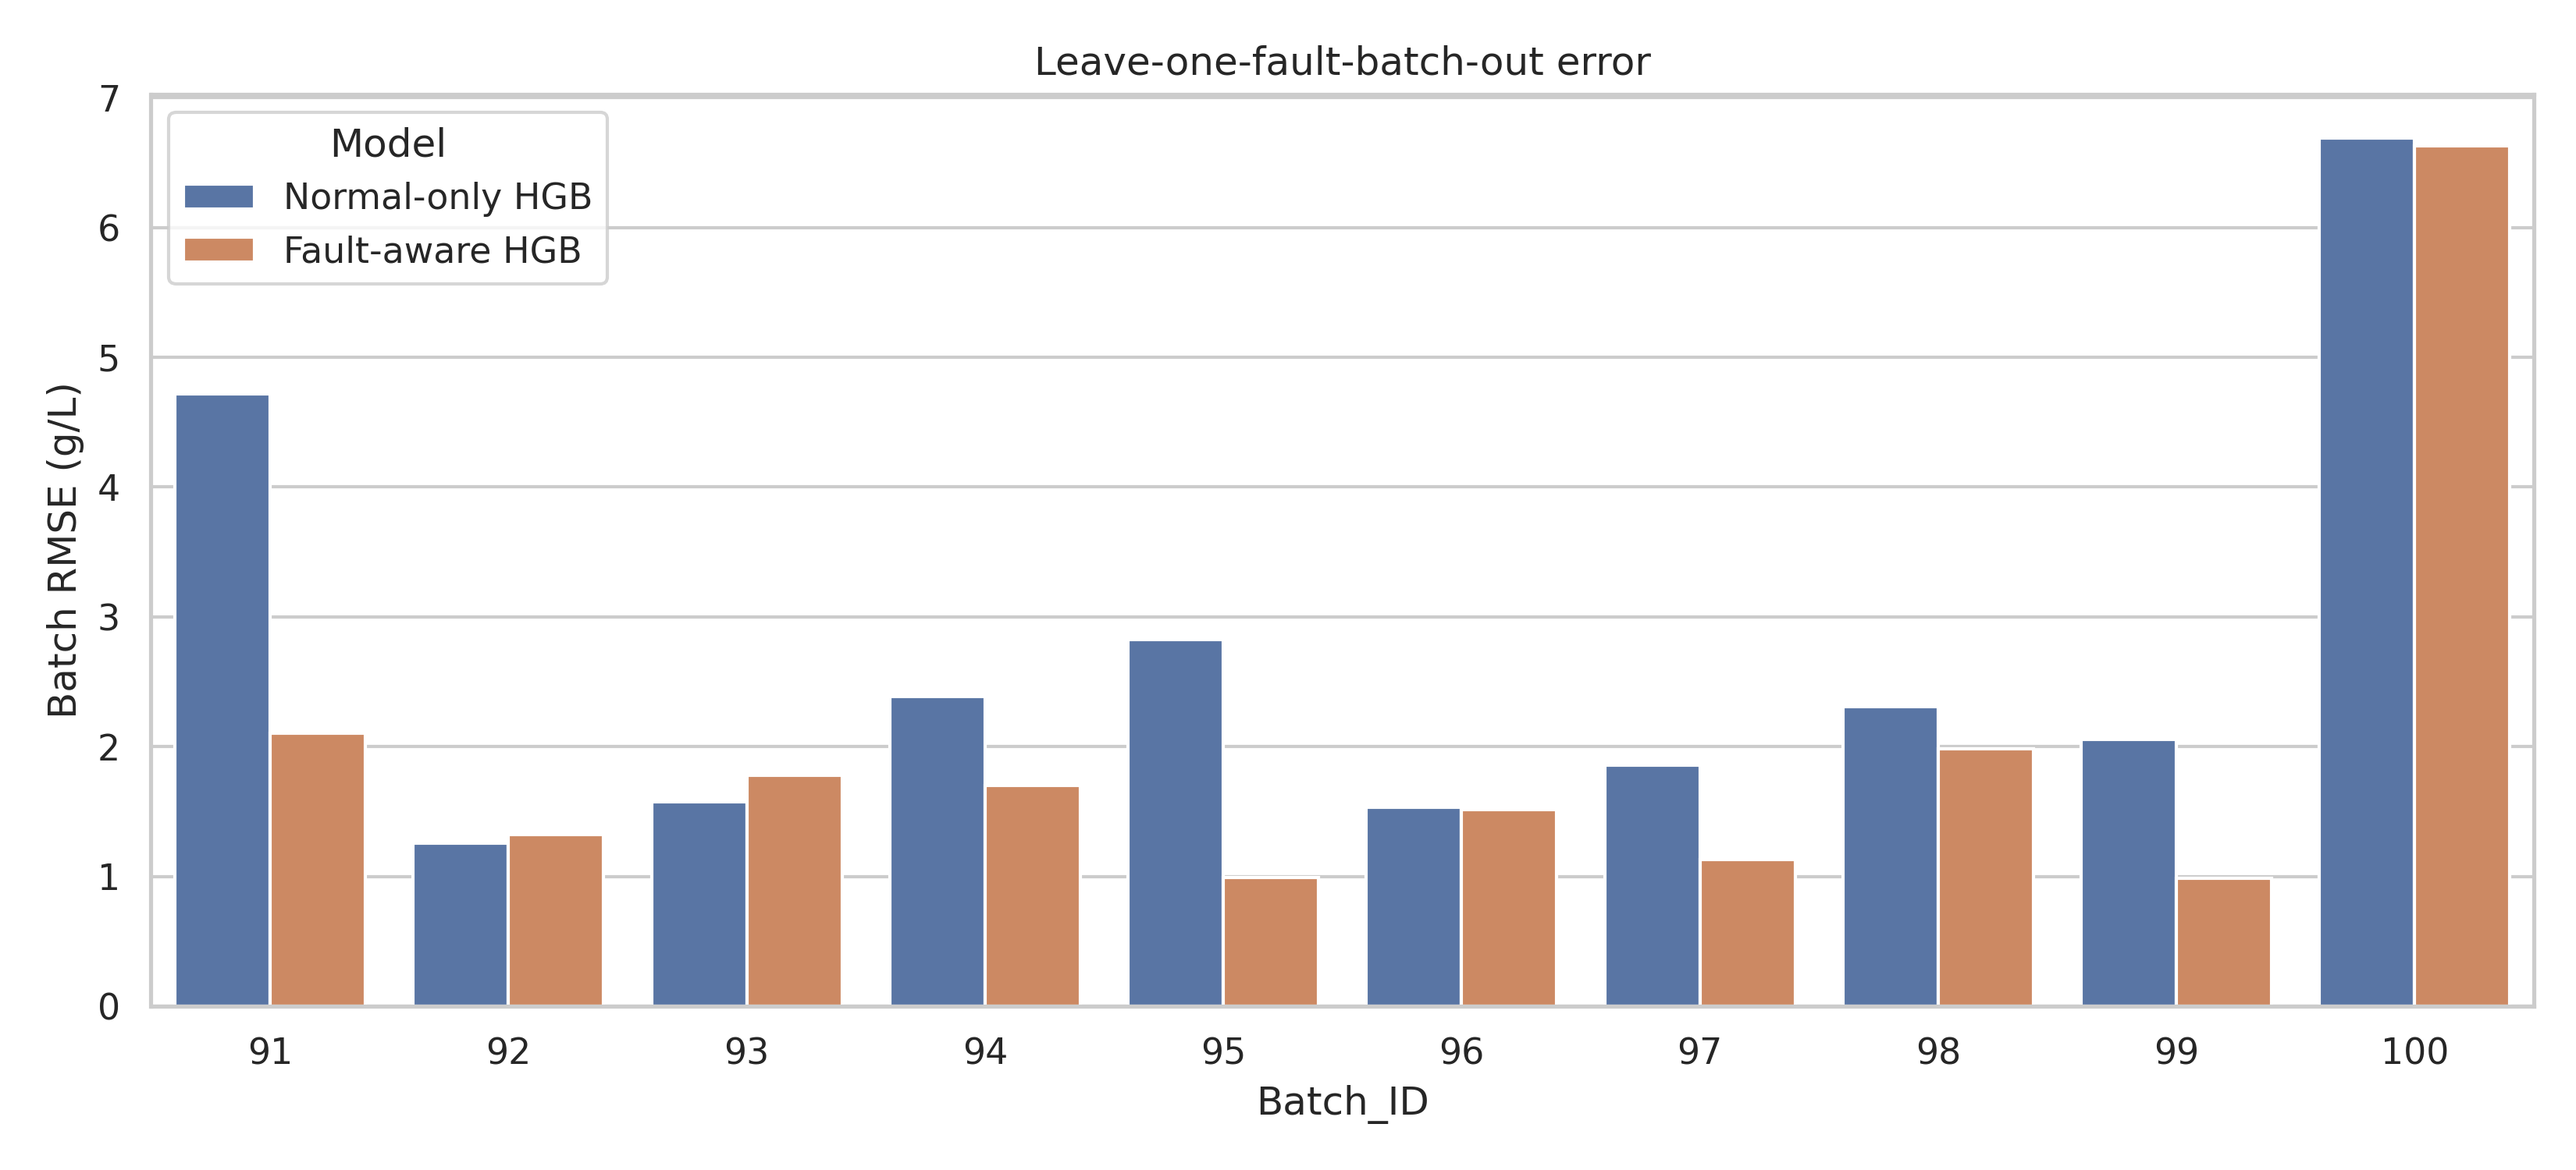
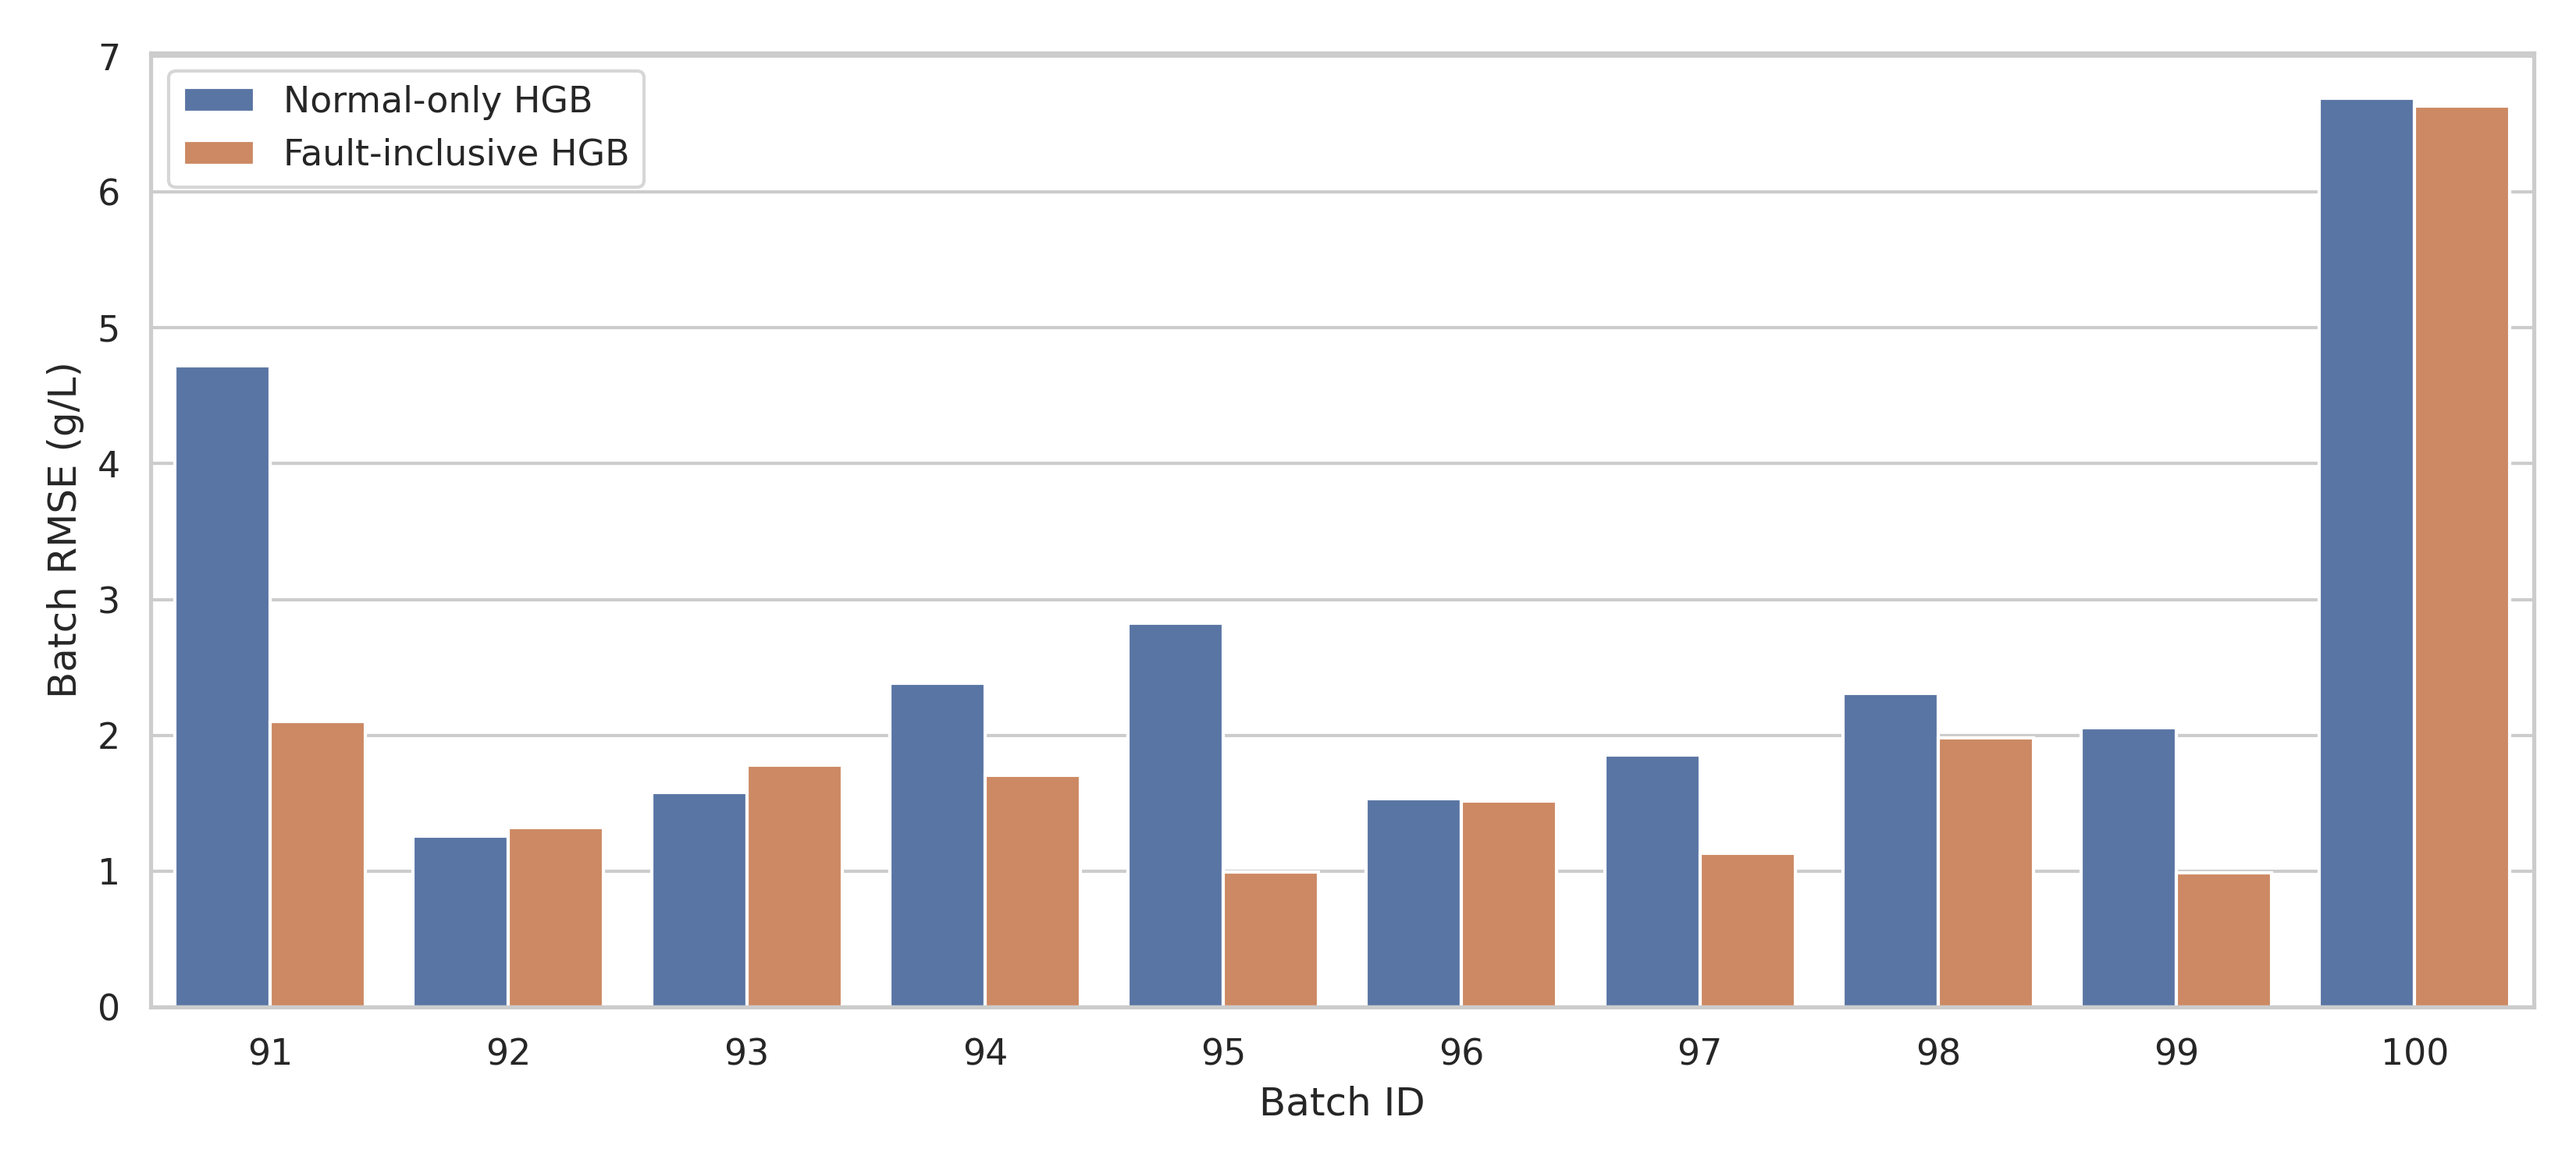
Refine fault-batch RMSE figure labels
Remove Figure 2 title, use Batch ID on the x-axis, and display
Fault-inclusive HGB in the legend. Regenerate the figure from
unchanged saved results, record the presentation-only revision,
and keep source-integrity checks traceable. No model retraining.

diff --git a/tests/test_repository.py b/tests/test_repository.py
@@ -92,16 +92,23 @@ class RepositoryChecks(unittest.TestCase):
                 compile("".join(cell["source"]), f"{item['path']}:{cell['id']}", "exec")
 
     def test_original_scientific_sources_are_preserved(self):
-        # Setup paths may legitimately be edited by a user. Scientific changes
-        # should be versioned and described rather than silently changing the
-        # historical snapshot. This check intentionally catches such changes.
+        # Setup paths may be edited. Approved presentation edits must reverse
+        # exactly to the original source, so modelling changes remain caught.
         for item in self.provenance["notebooks"]:
             notebook = json.loads((ROOT / item["path"]).read_text(encoding="utf-8"))
             by_id = {cell["id"]: cell for cell in notebook["cells"]}
             preserved_count = 0
             for record in item["code_cells"]:
                 cell = by_id[record["repository_cell_id"]]
-                if record["scientific_source_unchanged"]:
+                if record.get("presentation_change"):
+                    source = "".join(cell["source"])
+                    self.assertEqual(digest(source), record["repository_source_sha256"])
+                    for change in reversed(record["presentation_change"]["replacements"]):
+                        self.assertEqual(source.count(change["after"]), 1)
+                        source = source.replace(change["after"], change["before"], 1)
+                    self.assertEqual(digest(source), record["original_source_sha256"])
+                    preserved_count += 1
+                elif record["scientific_source_unchanged"]:
                     self.assertEqual(digest("".join(cell["source"])), record["original_source_sha256"])
                     preserved_count += 1
                 else:
@@ -111,6 +118,19 @@ class RepositoryChecks(unittest.TestCase):
     def test_archived_results_have_not_been_replaced(self):
         for item in self.provenance["archived_results"]:
             self.assertEqual(digest((ROOT / item["path"]).read_bytes()), item["sha256"], item["path"])
+
+    def test_fault_batch_figure_presentation_revision_is_traceable(self):
+        notebook_record = next(r for r in self.provenance["notebooks"] if r["path"] == "notebooks/main.ipynb")
+        cell_record = next(r for r in notebook_record["code_cells"] if r["repository_cell_id"] == "ml4-source-014")
+        change = cell_record["presentation_change"]
+        self.assertEqual(change["figure"], "results/main/figure_2_fault_batch_rmse.png")
+        self.assertFalse(change["model_retrained"])
+        for item in change["numeric_inputs"]:
+            self.assertEqual(digest((ROOT / item["path"]).read_bytes()), item["sha256"])
+        figures = json.loads((ROOT / "docs/figure_provenance.json").read_text())["figures"]
+        figure = next(r for r in figures if r["id"] == "F2")
+        self.assertEqual(figure["presentation_revision"]["source_cell_sha256"], cell_record["repository_source_sha256"])
+        self.assertEqual(figure["sha256"], digest((ROOT / change["figure"]).read_bytes()))
 
     def test_prediction_rows_and_held_out_membership(self):
         self.assertEqual(len(self.predictions), 113935)

diff --git a/docs/FIGURES.md b/docs/FIGURES.md
@@ -2,7 +2,7 @@
 
 [Project overview](../README.md) · [Results guide](RESULTS_GUIDE.md) · [Figure provenance](figure_provenance.json)
 
-The gallery contains **14 distinct plots** from the two completed studies. Every plot is an original output, not a redrawn illustration. Six experiment plots also have a separate notebook-display rendering: both versions are retained, giving **20 PNG files** in total.
+The gallery contains **14 distinct plots** from the two completed studies. Figure F2 was regenerated from the unchanged saved results on 4 September 2026 to update its presentation labels; all other plots retain their original renderings. Six experiment plots also have a separate notebook-display rendering: both versions are retained, giving **20 PNG files** in total.
 
 ## Baseline ML: learning from normal batches
 
@@ -43,8 +43,8 @@ The gallery contains **14 distinct plots** from the two completed studies. Every
 
 - MAE and RMSE use g/L; lower is better. R² is not an accuracy percentage.
 - Early OOD plots and final risk-score plots describe different methods. Neither proves a physical fault.
-- Original labels are preserved. Captions qualify ambiguous labels without changing the images.
+- Figure F2 has no plot title, uses **Batch ID** and **Batch RMSE (g/L)** as axis labels, and labels its series **Normal-only HGB** and **Fault-inclusive HGB**. Other figures retain their original labels.
 - The studies use different evaluation designs; do not pool them as independent repetitions of one experiment.
-- Every canonical image and retained display variant is linked in the gallery. [figure_provenance.json](figure_provenance.json) records their SHA-256 hashes and original source locations.
+- Every canonical image and retained display variant is linked in the gallery. [figure_provenance.json](figure_provenance.json) records current hashes, original source locations and the F2 presentation revision.
 
 Retain the [IndPenSim attribution and data-derived material licence](../DATA_SOURCES.md) when reusing figures.

diff --git a/docs/REPRODUCIBILITY.md b/docs/REPRODUCIBILITY.md
@@ -74,4 +74,4 @@ python -m unittest discover -s tests -v
 
 The checks verify preserved notebook calculations, CSV integrity, split membership, agreement between input targets and held-out predictions, metric arithmetic, figure files and documentation links. They require no model training or external download.
 
-The scientific notebook code and original result values remain unchanged by repository organisation. Machine-readable verification records are indexed in [docs/README.md](README.md). Passing checks confirm repository consistency, not publication readiness or independent scientific validation.
+Model fitting, evaluation calculations and original result values remain unchanged. On 4 September 2026, Figure F2's plotting code in main.ipynb was updated to remove its title, label the x-axis “Batch ID” and display “Fault-inclusive HGB” in the legend. The figure was regenerated from saved results without retraining. The tests verify that reversing this recorded presentation-only edit exactly recovers the original source cell. Machine-readable verification records are indexed in [docs/README.md](README.md). Passing checks confirm repository consistency, not publication readiness or independent scientific validation.

diff --git a/docs/figures/FAULT_INCLUSIVE.md b/docs/figures/FAULT_INCLUSIVE.md
@@ -29,6 +29,8 @@ Source: [overall metrics](../../results/main/cross_validated_overall_metrics.csv
 
 **Chart type:** grouped bar chart, with a pair for each fault batch.
 
+Figure F2 was regenerated from the saved batch metrics on 4 September 2026. It has no plot title, uses **Batch ID** on the x-axis and **Batch RMSE (g/L)** on the y-axis, and displays **Normal-only HGB** and **Fault-inclusive HGB** in the legend. Only the presentation changed; the stored model identifiers and numerical results are unchanged.
+
 - Eight batches improve in RMSE; **92 and 93 worsen**.
 - Batch 100 retains the largest error, despite a small reduction.
 - The pooled improvement does not establish that every fault is handled correctly.
